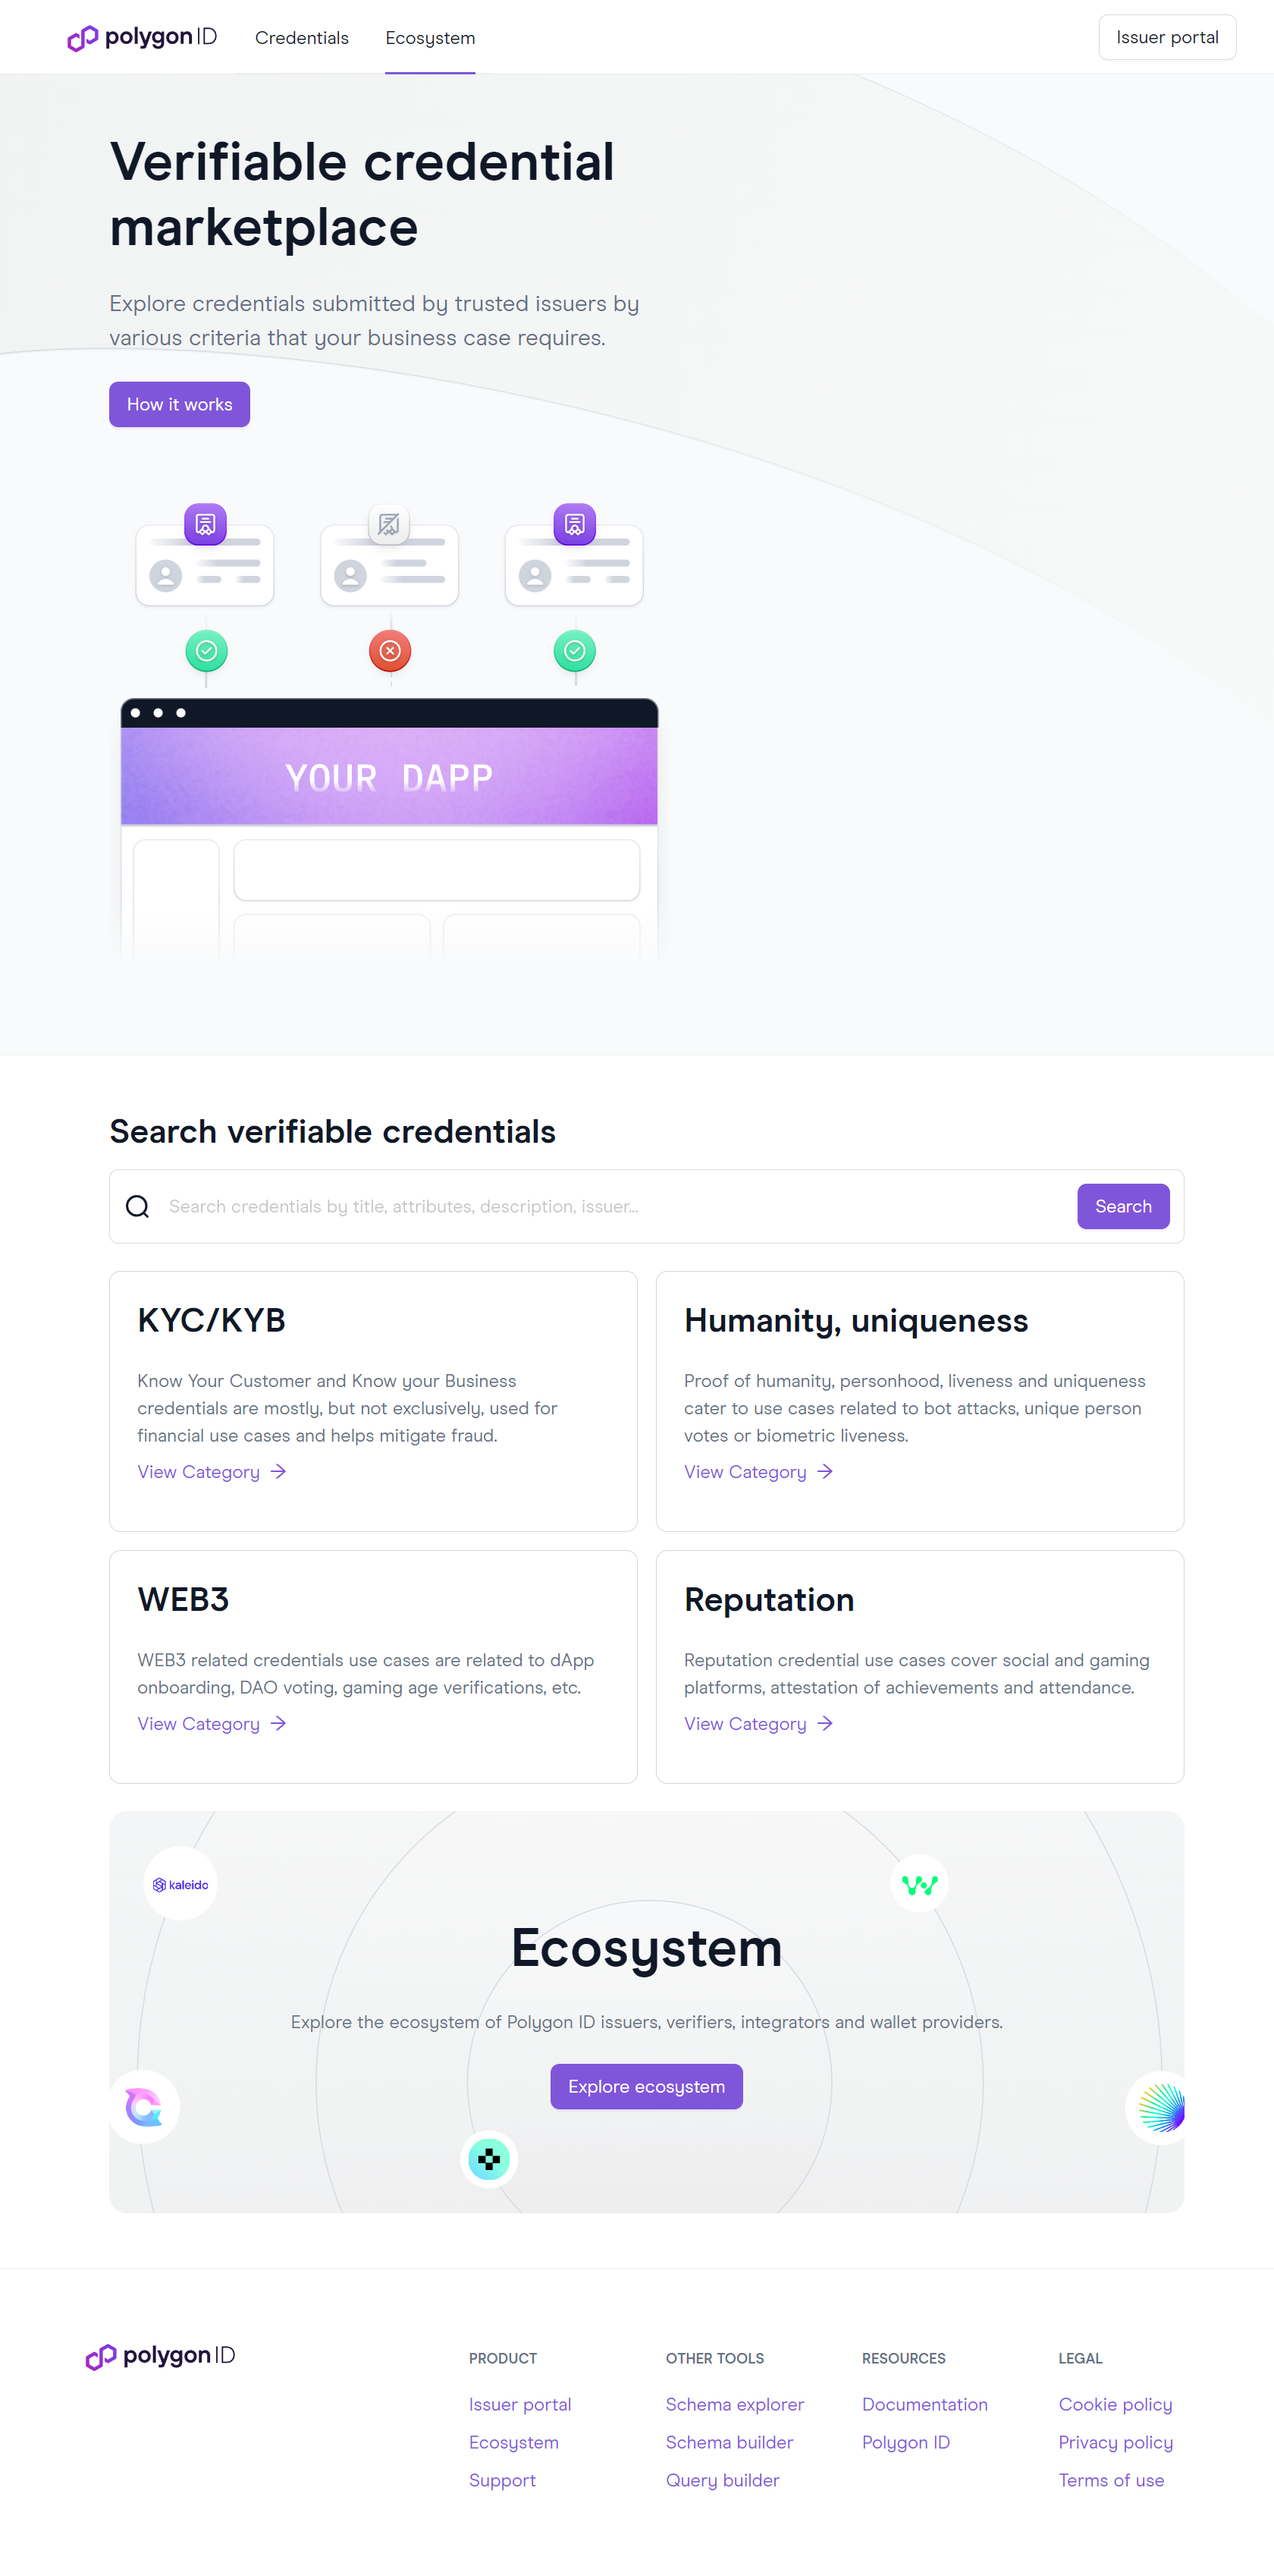
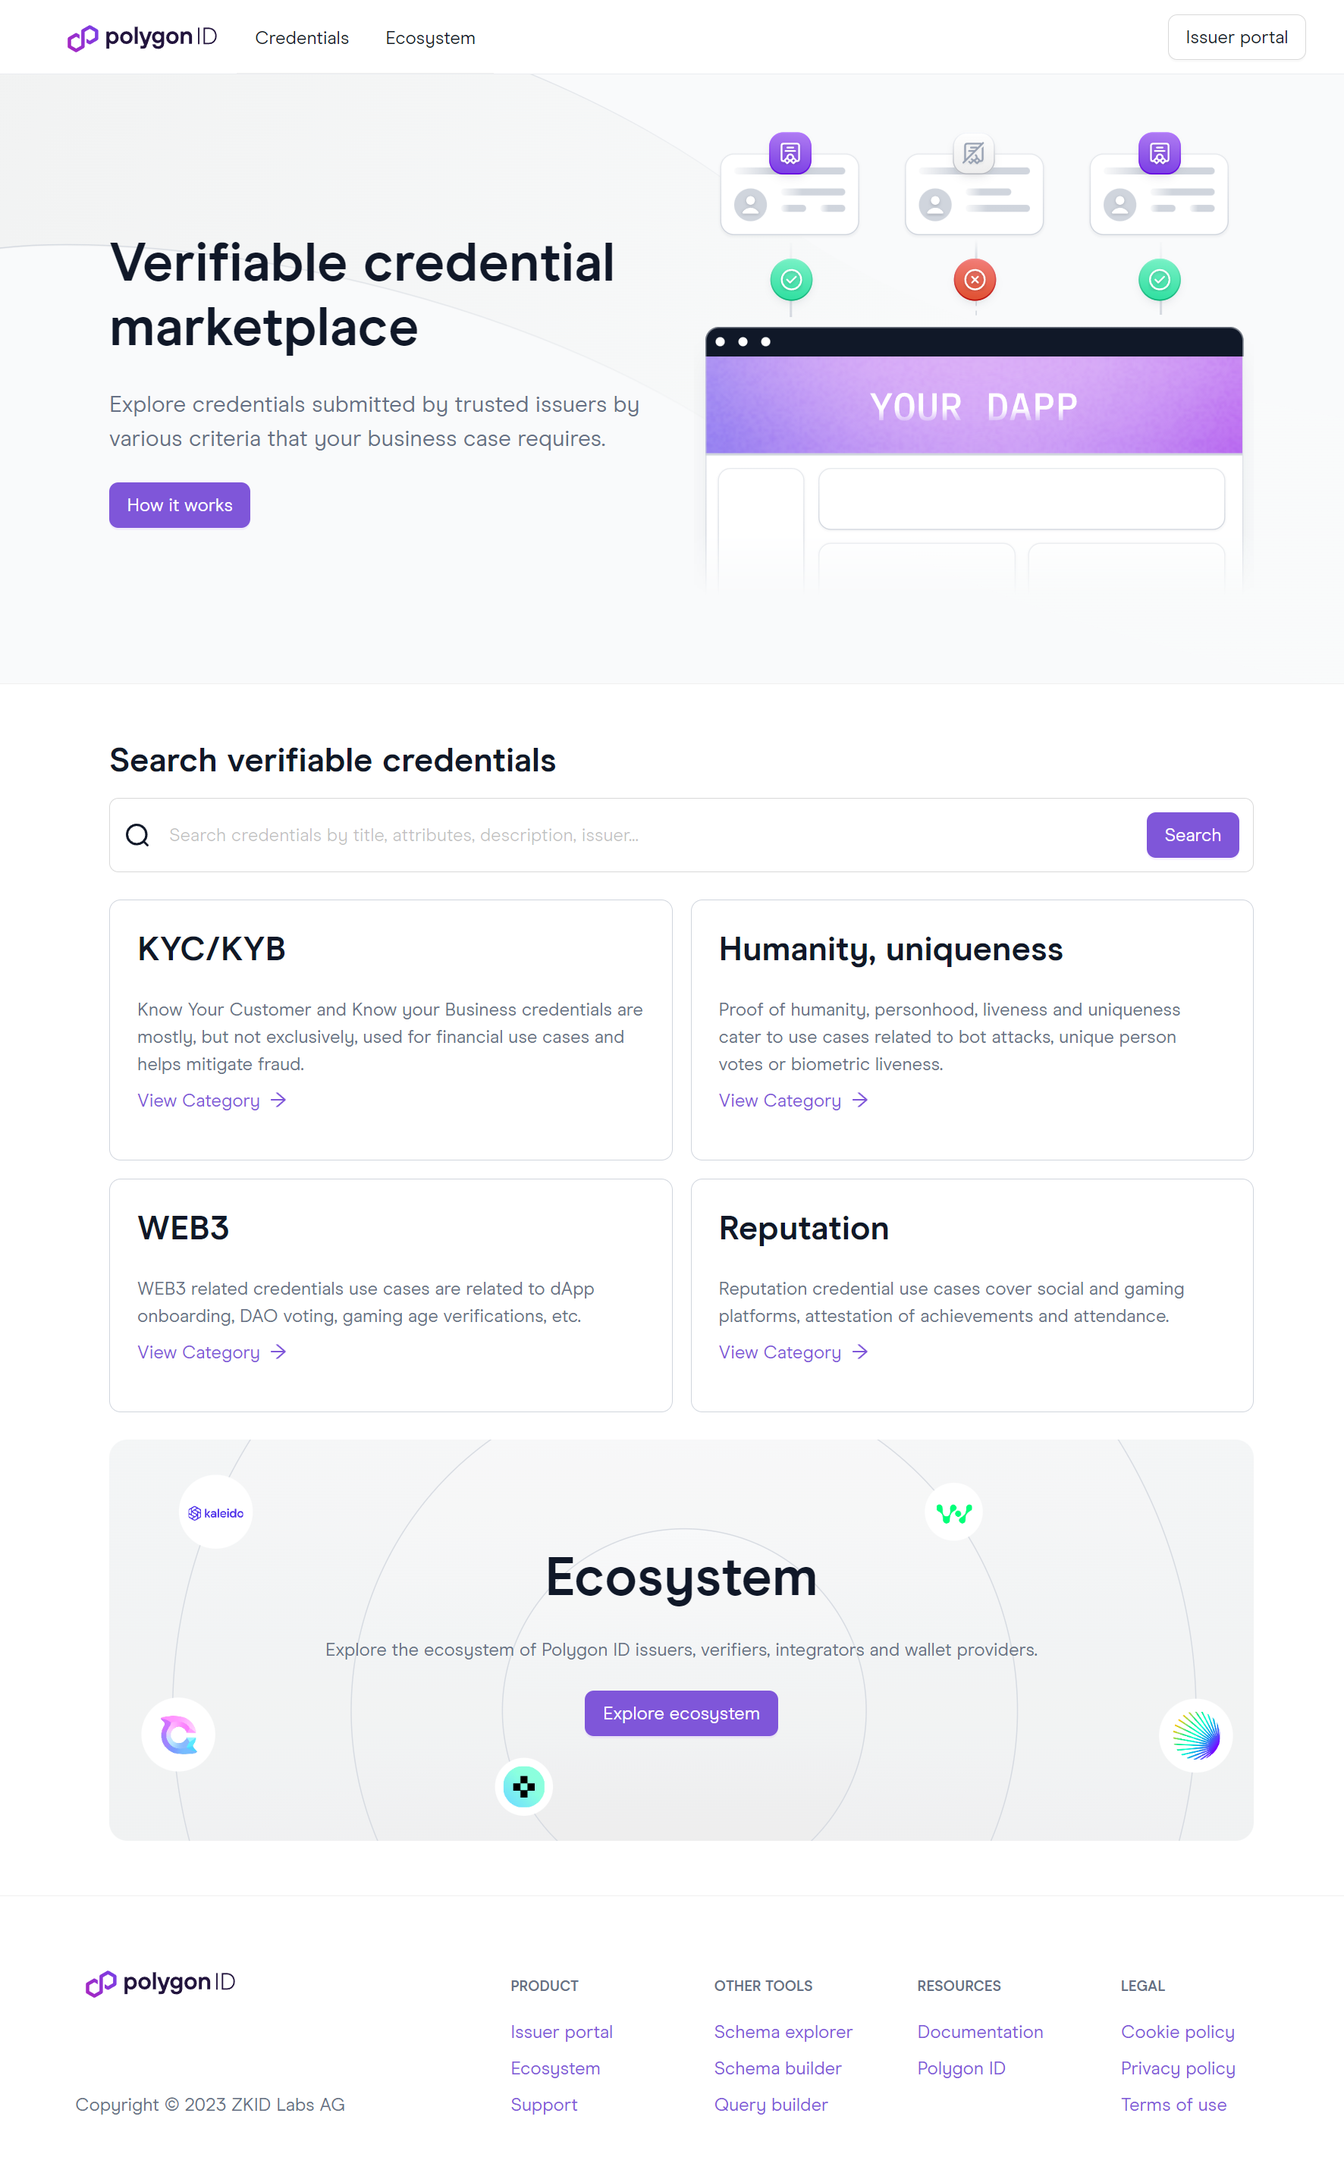
Updates screenshots
Also rephrases Ecosystem description

diff --git a/docs/issuer/credential-marketplace.md b/docs/issuer/credential-marketplace.md
@@ -60,7 +60,7 @@ Searching for credentials on the Credential Marketplace by using a comprehensive
 
 ## Ecosystem
 
-The Ecosystem page shows all the projects involved in the Polygon ID environment, be they verifiers, issuer, integrators and wallet providers. Those are organizations that really stand out with their solutions for the Digital Identity challenge by leveraging at least one of Polygon ID’s tools and products.
+The Ecosystem page shows all the projects involved in the Polygon ID environment, be they verifiers, credential providers, or other organizations from the SSI industry. Those are organizations that really stand out with their solutions for the Digital Identity challenge by leveraging at least one of Polygon ID’s tools and products.
 
 <div align="center">
 <img src= {useBaseUrl("img/credential-marketplace/ecosystem.png")} align="center" length="100" width="700" />
